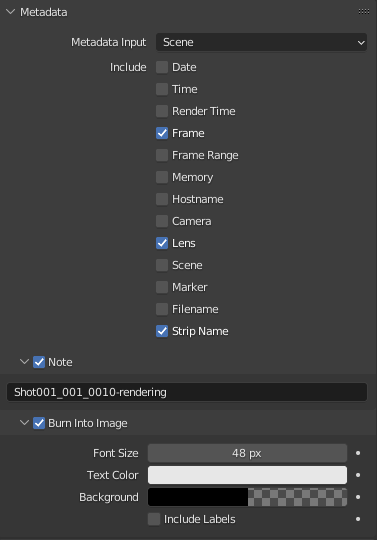
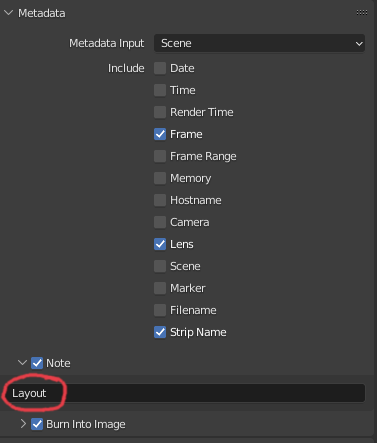
анимация на аутсорсе

Changed region(s): [[0.0, 0.0587, 0.992, 0.9684], [0.1751, 0.0587, 0.3793, 0.1761], [0.0, 0.0, 0.1751, 0.0587]]

diff --git a/docs/source/manual/processes/animation_at_outsource.rst b/docs/source/manual/processes/animation_at_outsource.rst
@@ -23,3 +23,11 @@
 -------------------
 
 * взятие в работу, обновление, отправка отчёта: `<https://disk.yandex.ru/i/BRksNltZkIcqvQ>`_
+
+* Включение отображения необходимой метадаты в плейбласт:
+
+    .. image:: ../../_static/images/meta_data_settings.png
+
+    * выставить указанные галочки.
+
+    * В поле ``Note`` указать вид деятельности текущей задачи.
